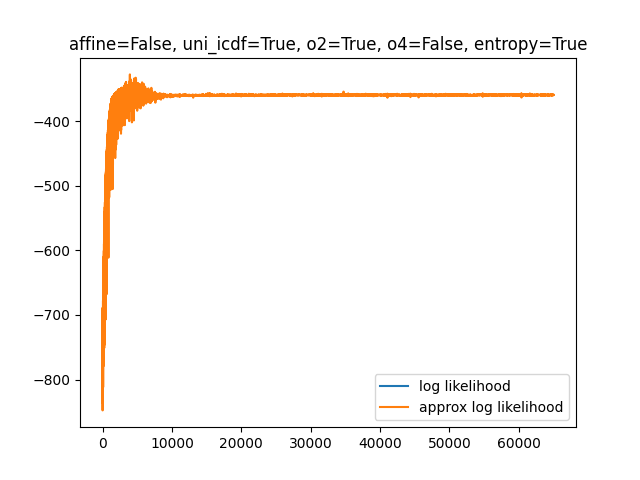
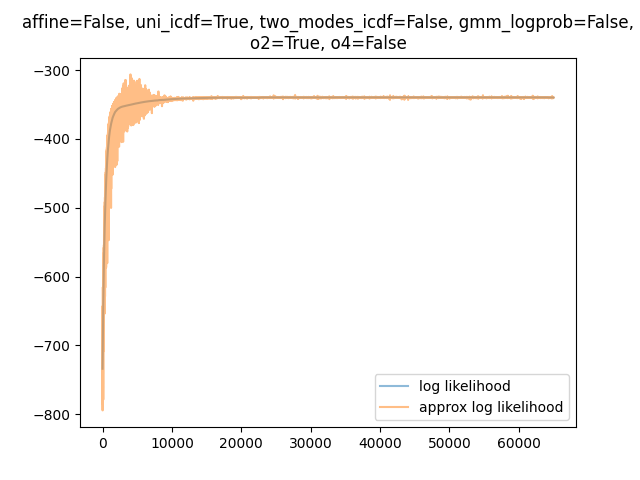
updates

diff --git a/main.py b/main.py
@@ -5,10 +5,10 @@ import numpy as np
 import torch
 from train import x
 from argparse import ArgumentParser
-from argparse import * 
-import os 
+from argparse import *
+import os
 import pickle
-
+from textwrap import wrap
 
 parser = ArgumentParser()
 parser.add_argument('--args_path', '-ap', type=str, default='args')
@@ -16,7 +16,7 @@ args_path = parser.parse_args().args_path
 args = __import__(args_path)
 
 
-params = args 
+params = args
 parameters = args_path
 
 epochs = params.epochs
@@ -42,8 +42,8 @@ plt.figure()
 plt.plot(log_likelihood, alpha=0.5, label='log likelihood')
 plt.plot(approx_log_likelihood, alpha=0.5, label='approx log likelihood')
 plt.legend()
-plt.title('affine=%s, uni_icdf=%s, two_modes_icdf=%s, gmm_logprob=%s,  o2=%s, o4=%s' %
-          (affine, uni_icdf,two_modes_icdf,gmm_logprob, o2, o4))
+plt.title("\n".join(wrap('affine=%s, uni_icdf=%s, two_modes_icdf=%s, gmm_logprob=%s,  o2=%s, o4=%s' %
+          (affine, uni_icdf, two_modes_icdf, gmm_logprob, o2, o4))))
 plt.savefig('/home/i.sebag/sync/PWGAN/plots/loglikelihood_%s' % (parameters))
 plt.show()
 
@@ -54,8 +54,8 @@ plt.plot(ld, alpha=0.5, label='loss discriminator - entropic ')
 plt.plot(lg_noe, alpha=0.5, label='loss generator - non entropic')
 plt.plot(ld_noe, alpha=0.5, label='loss discriminator - non entropic')
 plt.legend()
-plt.title('affine=%s, uni_icdf=%s, two_modes_icdf=%s, gmm_logprob=%s,  o2=%s, o4=%s' %
-          (affine, uni_icdf,two_modes_icdf,gmm_logprob, o2, o4))
+plt.title("\n".join(wrap('affine=%s, uni_icdf=%s, two_modes_icdf=%s, gmm_logprob=%s,  o2=%s, o4=%s' %
+          (affine, uni_icdf, two_modes_icdf, gmm_logprob, o2, o4))))
 plt.savefig('/home/i.sebag/sync/PWGAN/plots/loss_%s' % (parameters))
 plt.show()
 
@@ -67,8 +67,8 @@ plt.plot(muq_noe, alpha=0.5, label='mu q - non entropic')
 plt.plot(muk_noe, alpha=0.5, label='mu k - non entropic ')
 plt.plot(np.ones(len(muq))*torch.mean(x).item(), label='mu true')
 plt.legend()
-plt.title('affine=%s, uni_icdf=%s, two_modes_icdf=%s, gmm_logprob=%s,  o2=%s, o4=%s' %
-          (affine, uni_icdf,two_modes_icdf,gmm_logprob, o2, o4))
+plt.title("\n".join(wrap('affine=%s, uni_icdf=%s, two_modes_icdf=%s, gmm_logprob=%s,  o2=%s, o4=%s' %
+          (affine, uni_icdf, two_modes_icdf, gmm_logprob, o2, o4))))
 plt.savefig('/home/i.sebag/sync/PWGAN/plots/mu_%s' % (parameters))
 plt.show()
 
@@ -81,12 +81,10 @@ plt.plot(np.exp(logsigmak_noe), alpha=0.5, label='sigma k - non entropic ')
 plt.plot(np.ones(len(logsigmaq)) *
          np.sqrt(torch.var(x).item()), label='sigma true')
 plt.legend()
-plt.title('affine=%s, uni_icdf=%s, two_modes_icdf=%s, gmm_logprob=%s,  o2=%s, o4=%s' %
-          (affine, uni_icdf,two_modes_icdf,gmm_logprob, o2, o4))
+plt.title("\n".join(wrap('affine=%s, uni_icdf=%s, two_modes_icdf=%s, gmm_logprob=%s,  o2=%s, o4=%s' %
+          (affine, uni_icdf, two_modes_icdf, gmm_logprob, o2, o4))))
 plt.savefig('/home/i.sebag/sync/PWGAN/plots/sigma_%s' % (parameters))
 plt.show()
-
-
 
 
 # # save pickles

diff --git a/p4.py b/p4.py
@@ -1,10 +1,10 @@
 
 epochs = 300000
-learning_rate = 1e-3
+learning_rate = 1e-4
 affine = False
 uni_icdf = True
 two_modes_icdf = False
 gmm_logprob = False 
 o2 = False
-entropy = True
+#entropy = True
 o4 =True 

diff --git a/p6.py b/p6.py
@@ -4,7 +4,7 @@ learning_rate = 1e-3
 affine = False
 uni_icdf = False
 two_modes_icdf = True 
-o2 = True
-entropy = True
-o4 =False 
+o2 = False
+#entropy = True
+o4 = True  
 gmm_logprob = False 

diff --git a/p2.py b/p2.py
@@ -1,0 +1,10 @@
+
+epochs = 46000
+learning_rate = 1e-3
+affine = True
+o2 = False
+#entropy = False
+uni_icdf = False
+o4 = True
+two_modes_icdf = False
+gmm_logprob = False 

diff --git a/p5.py b/p5.py
@@ -1,0 +1,10 @@
+
+epochs = 30000
+learning_rate = 1e-3
+affine = False
+uni_icdf = False
+two_modes_icdf = True 
+o2 = True
+#entropy = True
+o4 =False 
+gmm_logprob = False 

diff --git a/p3.py b/p3.py
@@ -4,7 +4,7 @@ learning_rate = 1e-3
 affine = False
 uni_icdf = True
 o2 = True
-entropy = True
+#entropy = True
 o4 =False 
 two_modes_icdf = False
 gmm_logprob =  False 
